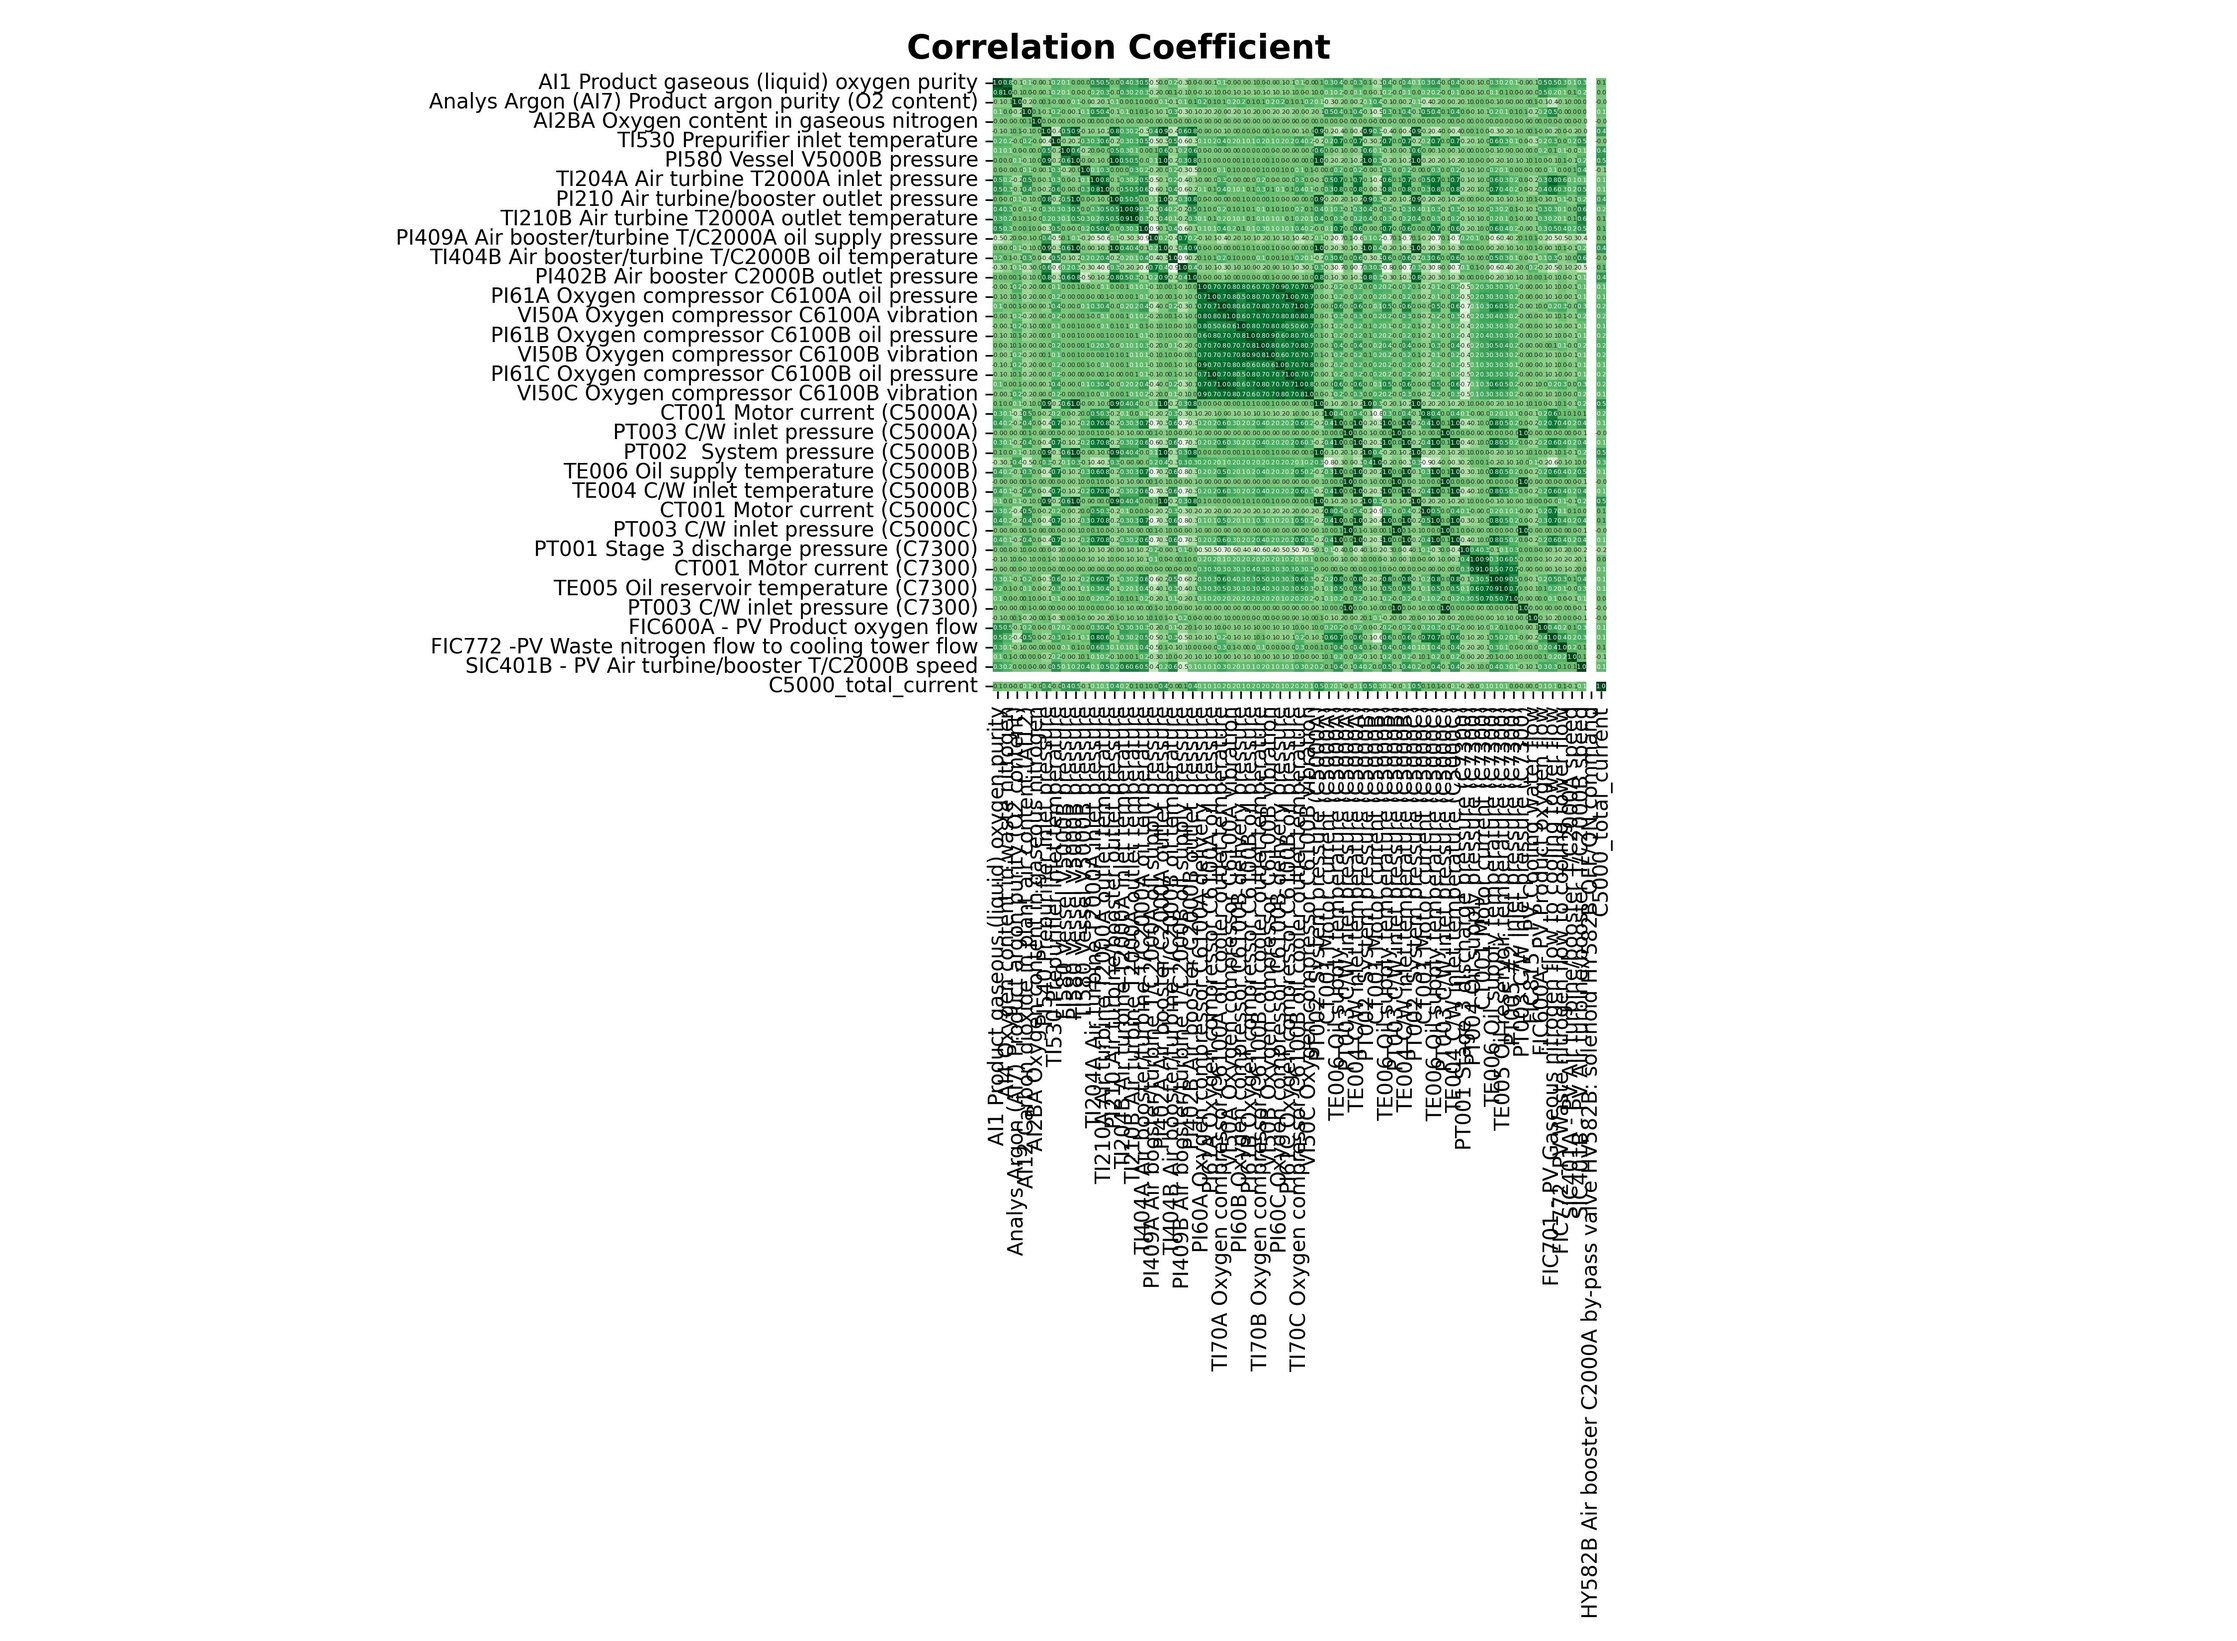
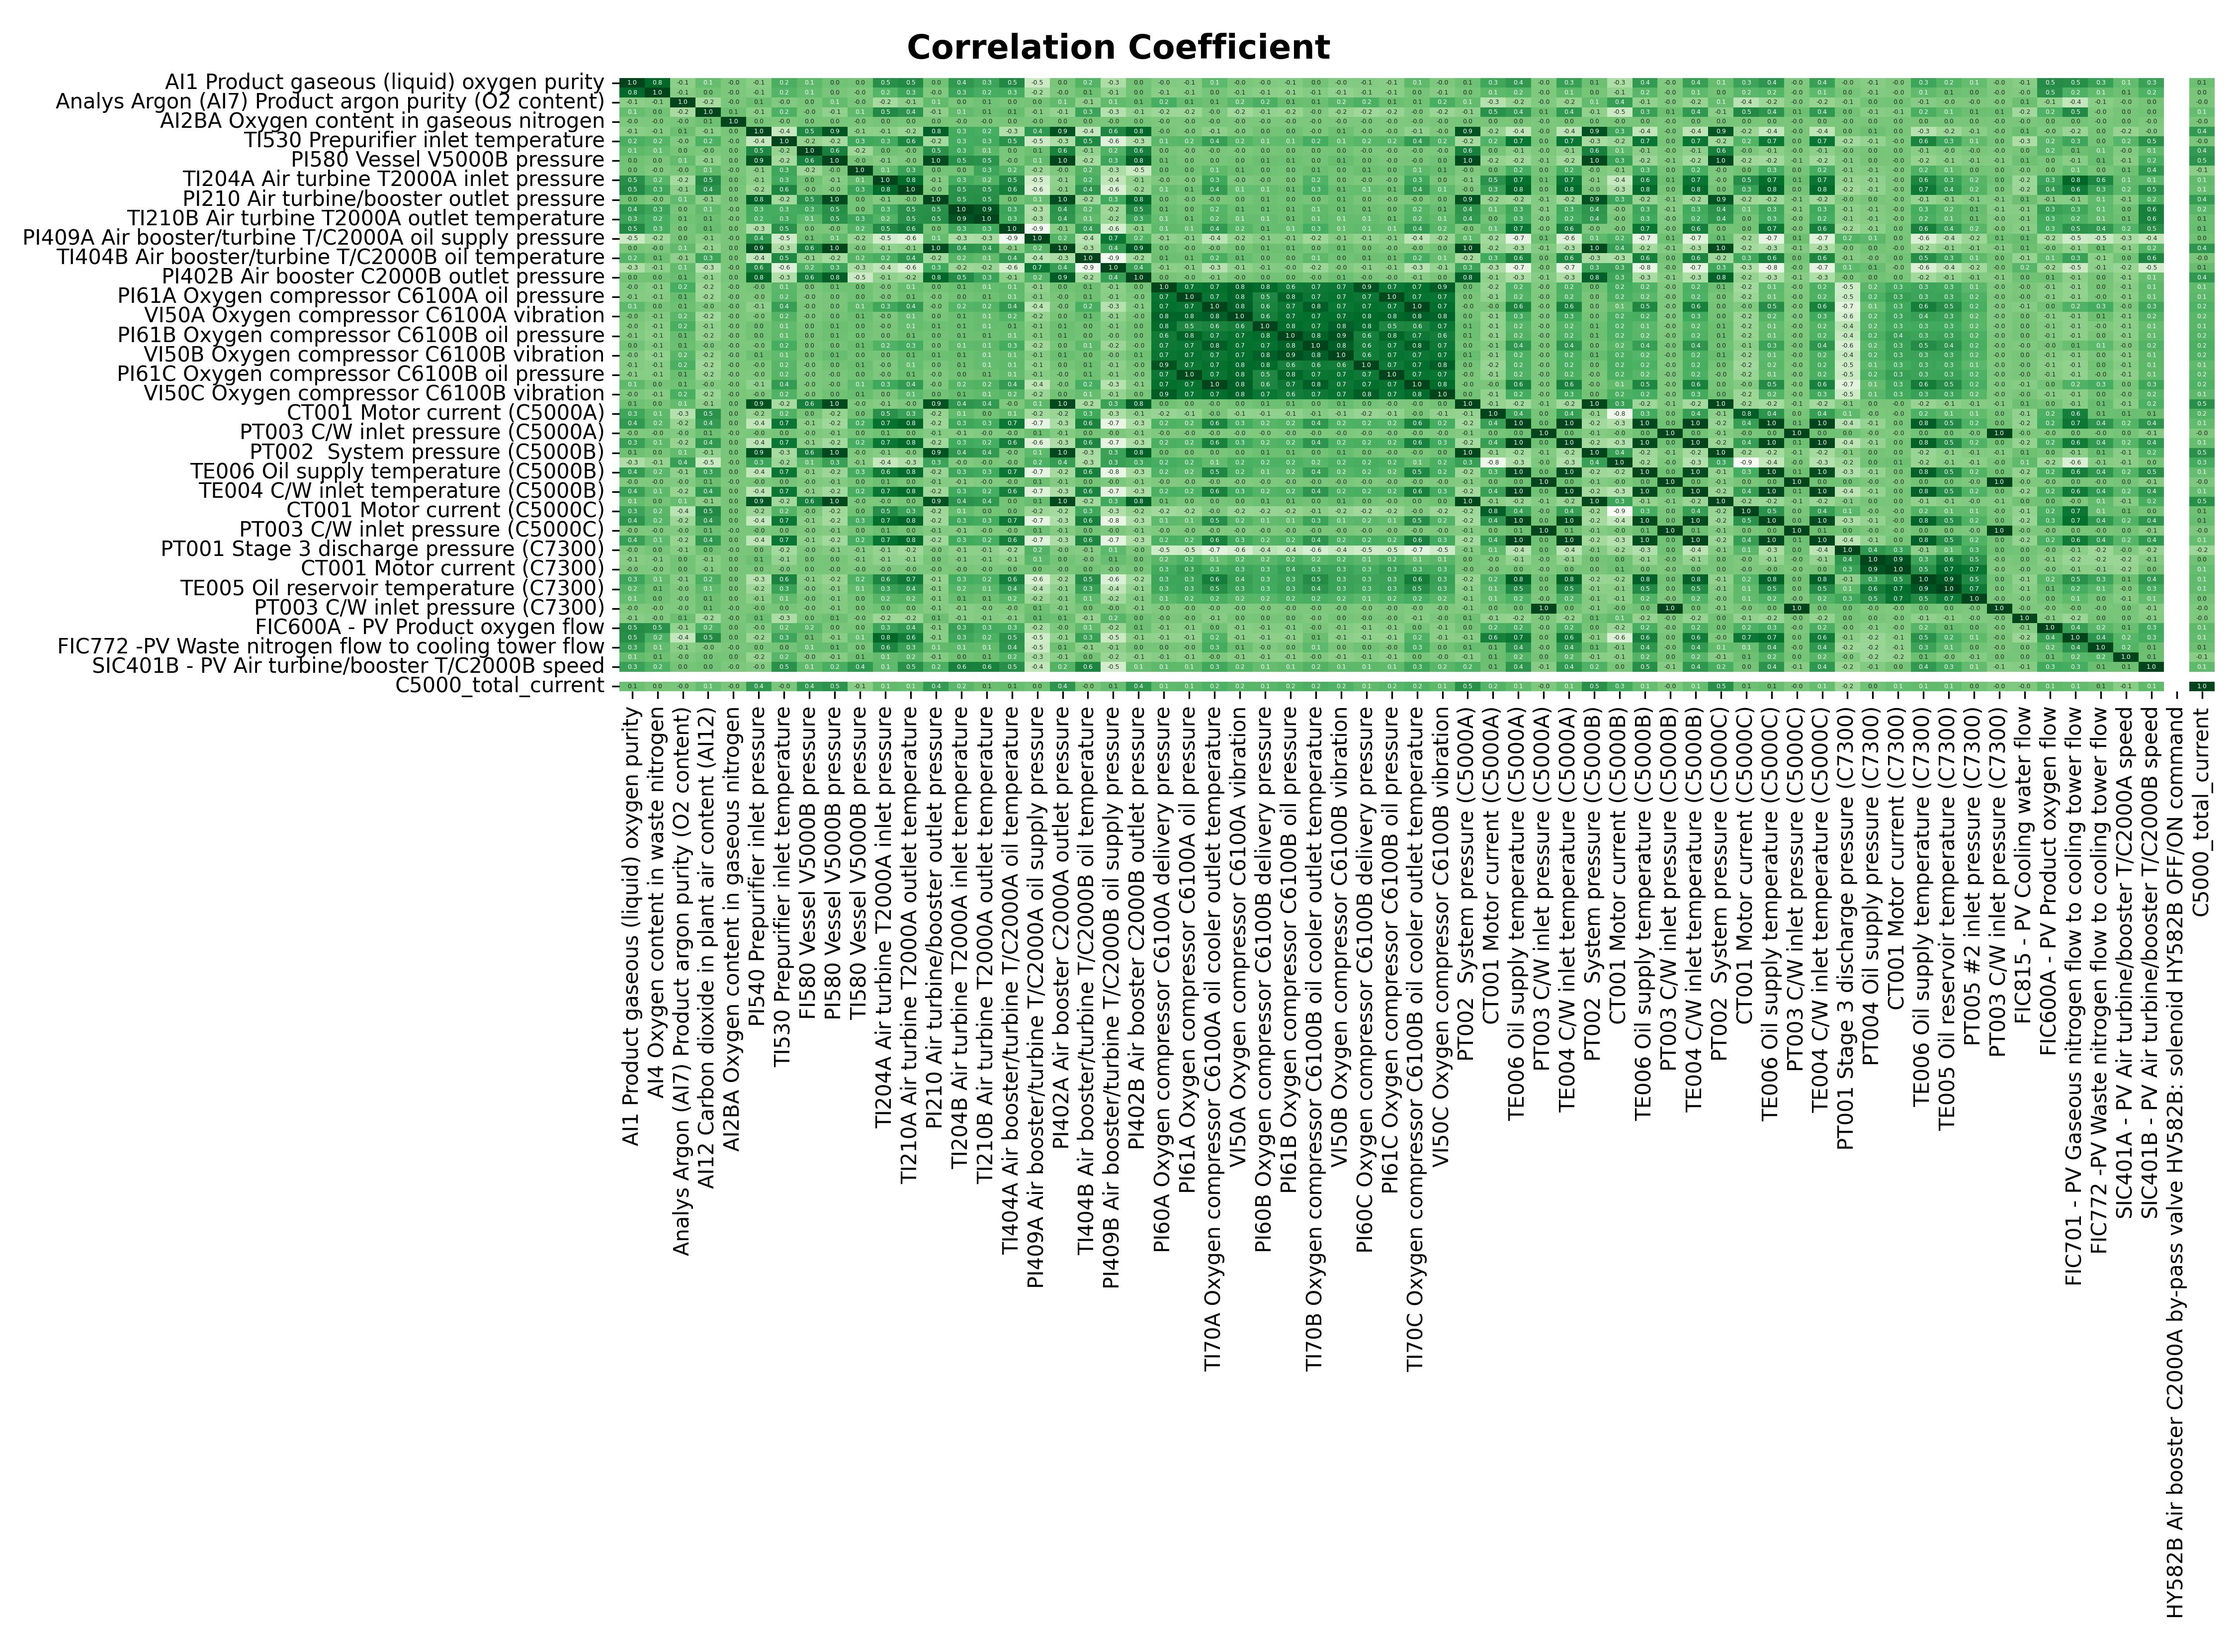
update

diff --git a/code/oxy.py b/code/oxy.py
@@ -75,7 +75,7 @@ corr = normal_data.corr()
 fig = plt.figure(figsize=(15,11),dpi=300)
 fig.suptitle('Correlation Coefficient', fontsize=16,fontweight='bold')
 ax1 = fig.subplots(1,1)
-sns.heatmap(corr, cbar=False,square= True, fmt='.1f', annot=True, annot_kws={'size':3}, cmap='Greens',ax= ax1)
+sns.heatmap(corr, cbar=False,square= False, fmt='.1f', annot=True, annot_kws={'size':3}, cmap='Greens',ax= ax1)
 fig.tight_layout()
 #plt.savefig(f'{working_dir}/fig/Correlation_Coefficient.jpg')
 plt.show()
@@ -168,5 +168,26 @@ plt.figure(figsize=(10,7),dpi=300)
 df['O2_Purity'].value_counts().plot.pie(autopct = '%.2f', textprops={'fontsize': 18})
 #plt.savefig(f'{working_dir}/fig/O2_purity_pie.jpg')
 plt.show()
+
+#// Product VS C5000 Compressor Motor Currents
+sns.set(rc = {'figure.figsize':(15,11),'figure.dpi':300})
+sns.displot(
+    data=df,
+    x=df['SIC401B - PV Air turbine/booster T/C2000B speed'],
+    hue=df['O2_Purity'],
+    #hue_order=['L1 (29500-29600)Nm3/h','L2 (29600-29700)Nm3/h','L3 (29700-29800)Nm3/h','L4 (29800-29900)Nm3/h','L5 (29900-30000)Nm3/h'],
+    kind="kde", height=6,
+    fill=True,
+    alpha = 0.05,
+)
+plt.axvline(27793, c='green')
+plt.annotate('27793 RPM', xy =(27795, 0.0023),rotation = 90,ha='center', fontsize=6,alpha = 0.8) 
+#plt.axvline(210, c='red')
+#plt.annotate('224', xy =(224, 0.009),rotation = 90,ha='center', fontsize=16) 
+plt.savefig(f'{working_dir}/fig/tubine-speed-O2-purity.jpg')
+plt.show()
+
+
+
 
 #df.to_excel(f"{working_dir}/fig/output.xlsx",index=False)
